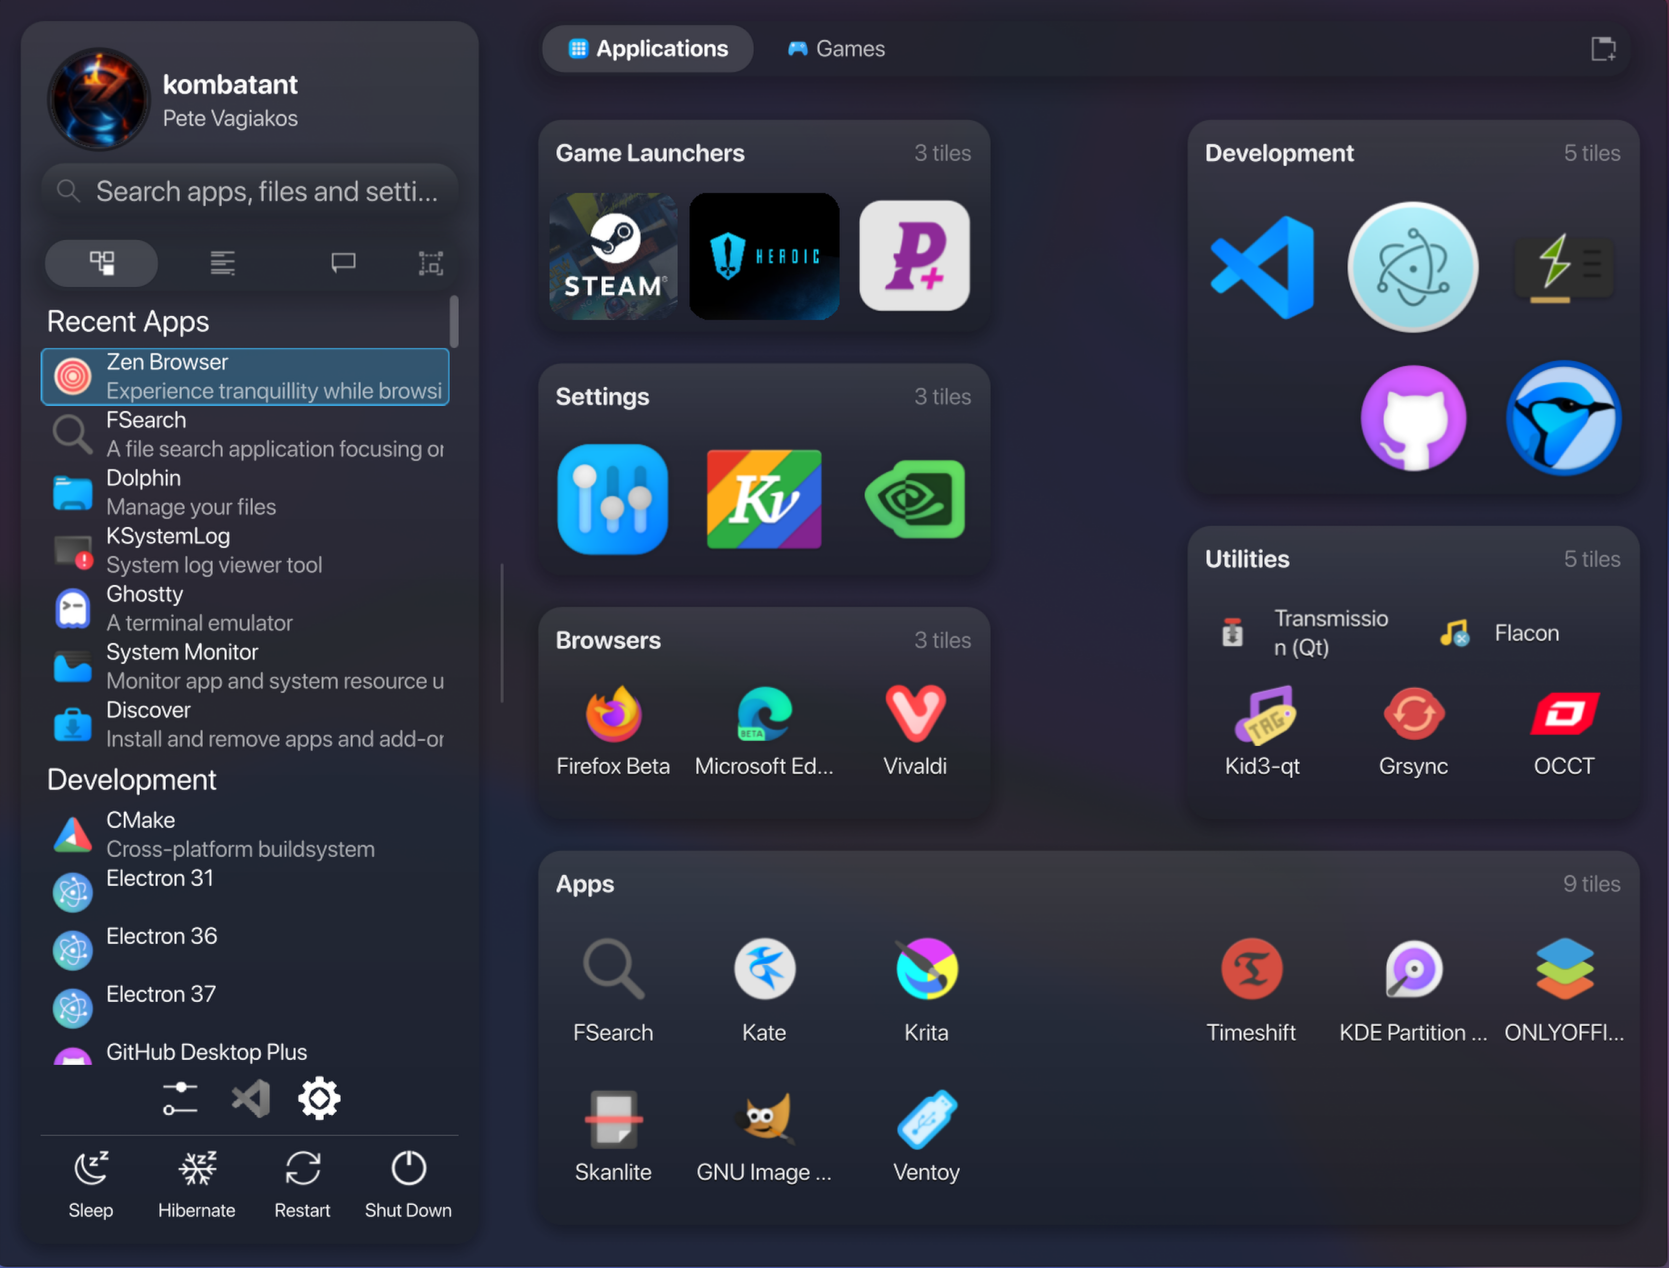
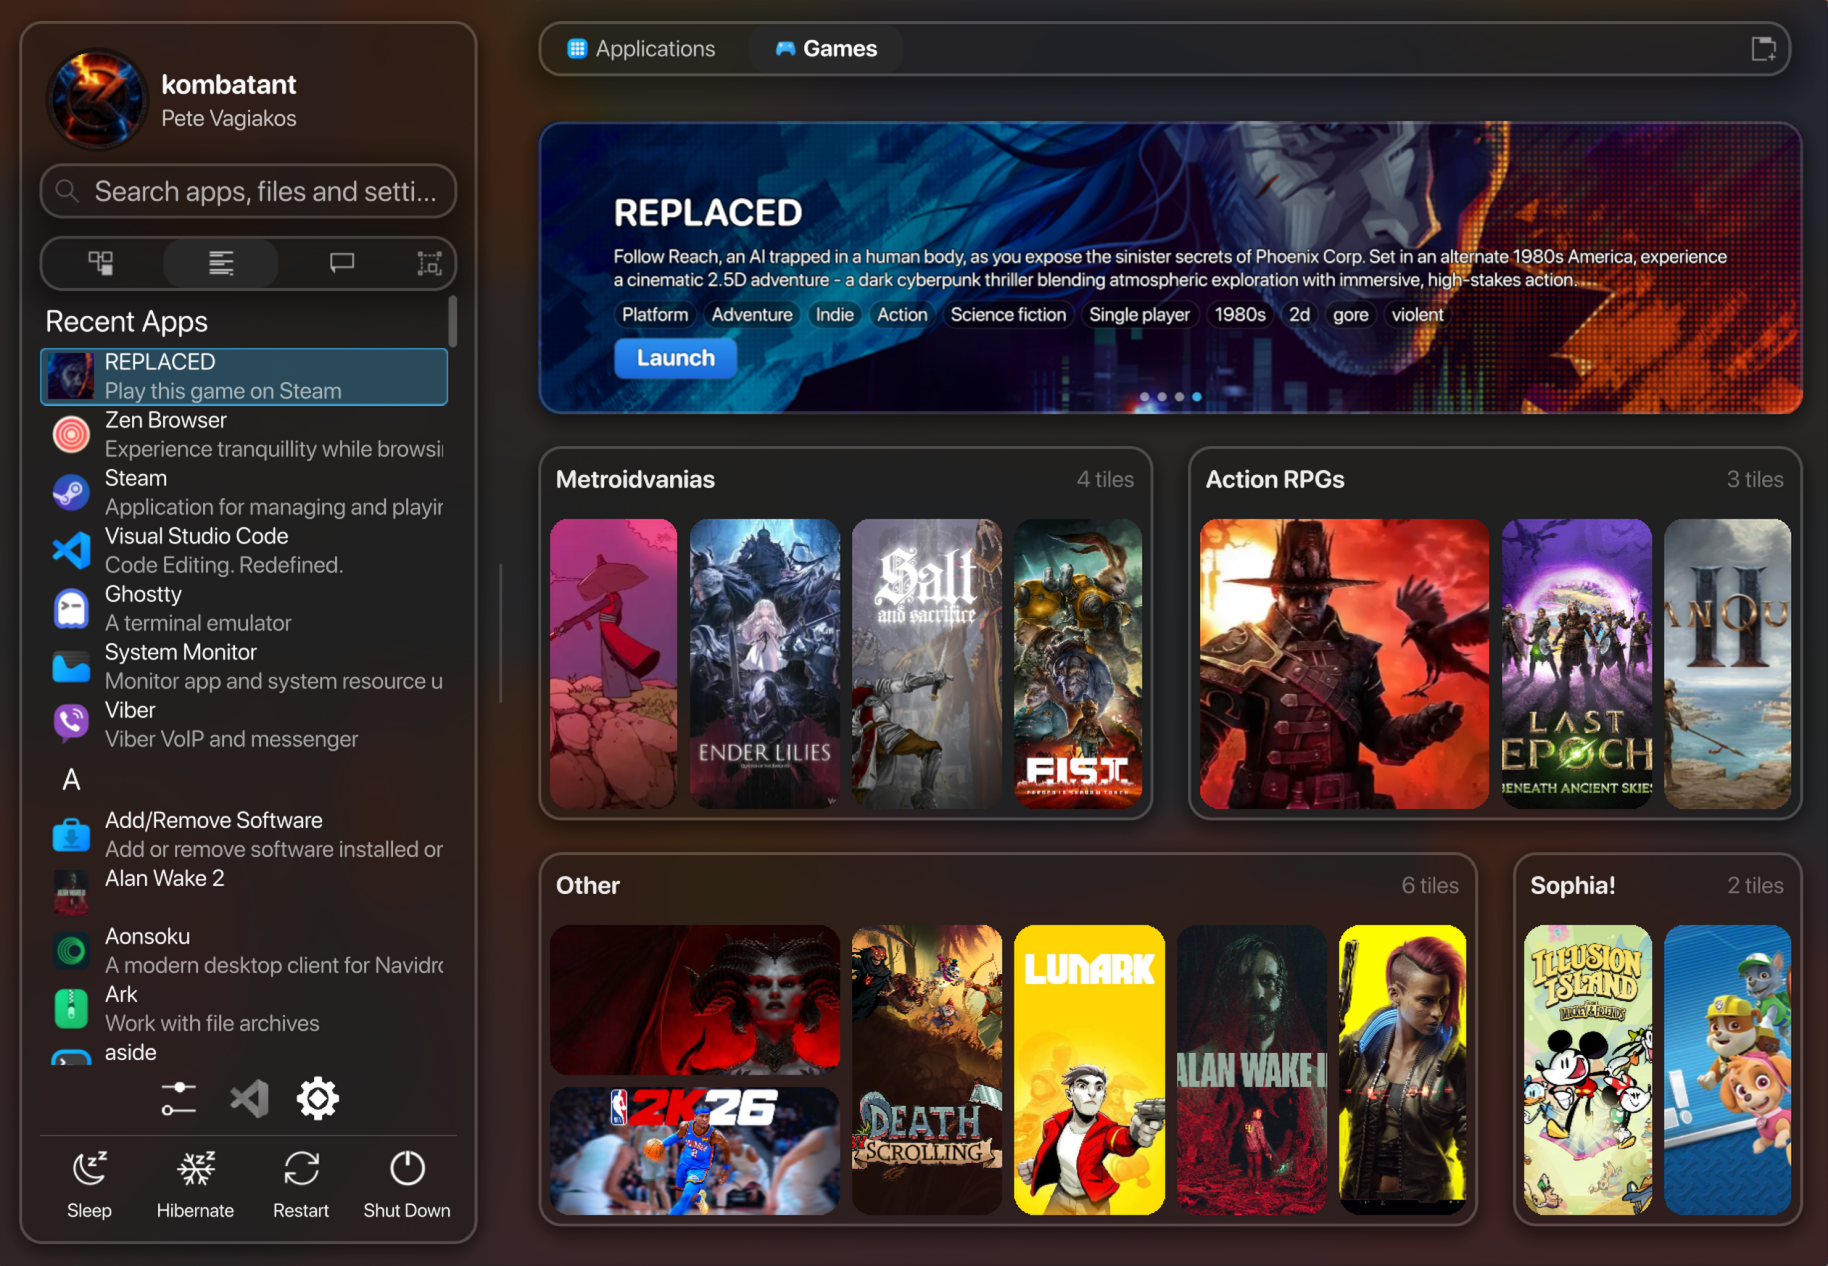
feat: Update README with new hero carousel tile and enhancements to Docked Sidebar layout

diff --git a/README.md b/README.md
@@ -14,14 +14,15 @@ Tiled Menu Reloaded is a Plasma applet that provides a tiled launcher loosely in
 - Support modern Qt6/Plasma 6 environments.
 
 ## Highlights
-- **New with 0.9 version**: New Docked Sidebar layout - still in early stages but it works, with support for custom user avatars (animated or static)
+- **New with 0.95 version**: New type of tile: hero carousel tile. Added support for IGDB game tiles with automatic metadata fetching.
+- Docked Sidebar layout - with support for custom user avatars (animated or static).
 - Tabs support in the tile area.
 - Added a AI Chat tab to the sidebar, which can be used to interact with various LLMs. 
 - Tile-based launcher with configurable sizes (1×1, 2×2, 4×4, and mixed layouts). 
 - Rounded tiles with customizable corner radius now supported.
 - Group tiles with headers; move and sort items within groups.
 - Drag-and-drop pinning from file manager and search results.
-- Animated tile support (GIF, APNG, WEBP) and per-tile background images.
+- Animated tile support (GIF, APNG, WEBP) and per-tile background images. **Make sure you use reasonably sized images for good performance.**
 - Configurable sidebar position, shortcuts and search filters.
 - Quick search/filtering of applications and files.
 - Stores tile layout as a Base64-encoded XML fragment. 
@@ -30,7 +31,7 @@ Tiled Menu Reloaded is a Plasma applet that provides a tiled launcher loosely in
 <details>
 <summary><h2>Click here for screenshots</h2></summary>
 
-![Docked sidebar Layout](contents/docs/docked_sidebar.png)
+![Docked sidebar Layout and Carousel Tile](contents/docs/docked_sidebar.png)
 
 ![Classic Layout](contents/docs/main.png)
 
